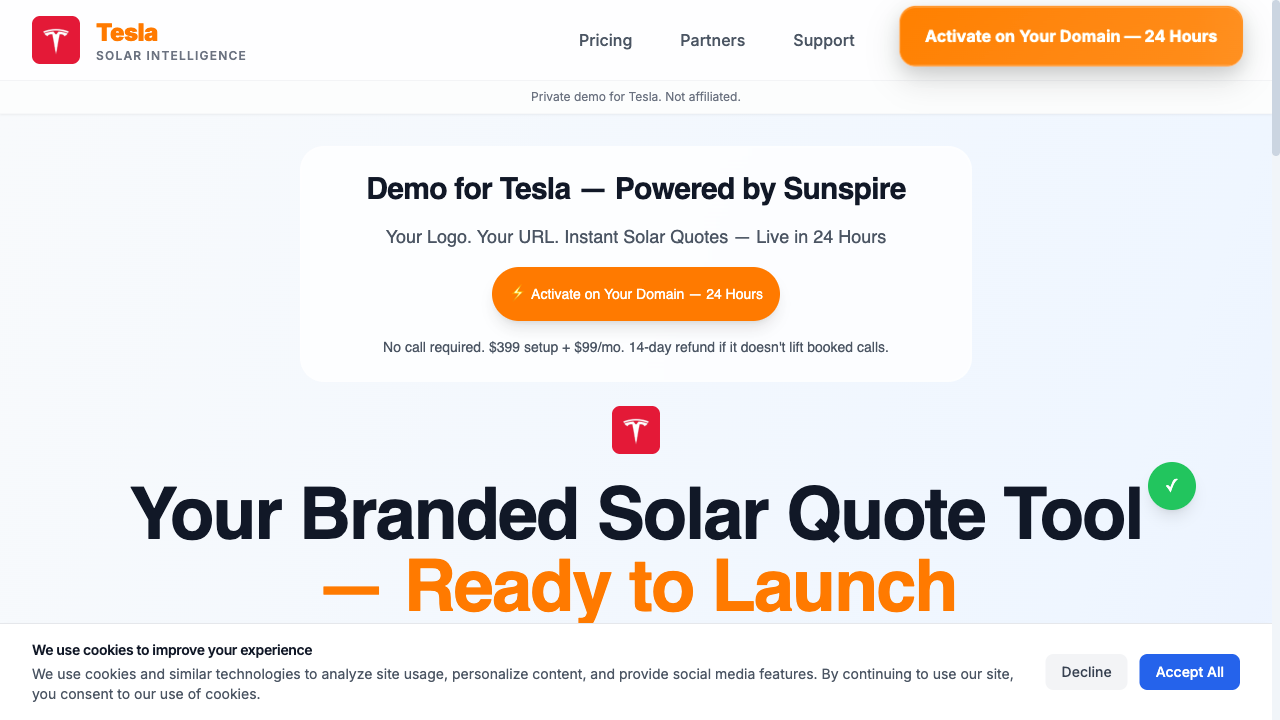
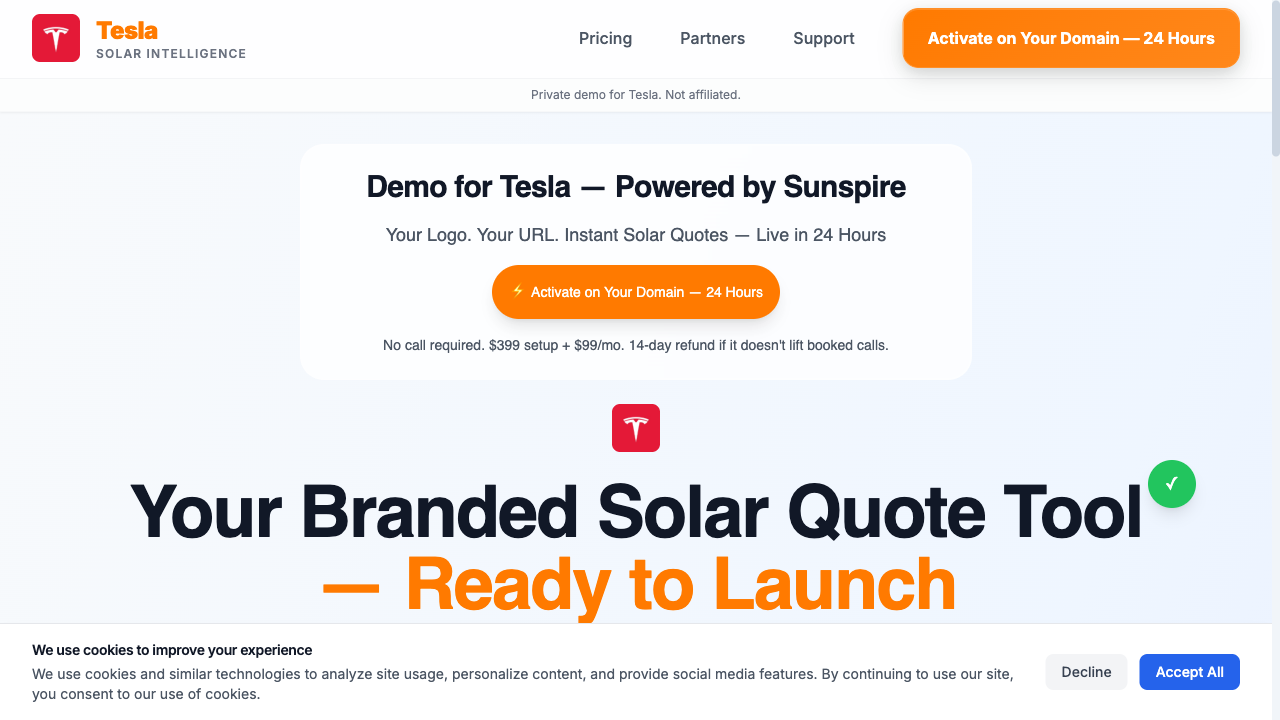
Fix useBrandColors to not override brand takeover colors

diff --git a/tests/test-final-brand-consistency.spec.ts b/tests/test-final-brand-consistency.spec.ts
@@ -1,0 +1,106 @@
+import { test, expect } from '@playwright/test';
+
+test('Test Final Brand Consistency with Cache Busting', async ({ page }) => {
+  console.log('🔍 Testing final brand consistency with cache busting...');
+  
+  // Add cache busting parameter
+  const testUrl = 'https://sunspire-web-app.vercel.app/report?address=1&lat=40.7128&lng=-74.0060&placeId=demo&company=Tesla&demo=1&cb=' + Date.now();
+  
+  // Clear ALL localStorage and sessionStorage
+  await page.goto('https://sunspire-web-app.vercel.app/');
+  await page.evaluate(() => {
+    localStorage.clear();
+    sessionStorage.clear();
+  });
+  
+  console.log('🔍 Loading Tesla report page with cache busting...');
+  await page.goto(testUrl);
+  await page.waitForLoadState('networkidle');
+  await page.waitForTimeout(3000);
+  
+  // Check brand state on report page
+  const reportBrandState = await page.evaluate(() => {
+    return {
+      brandPrimary: getComputedStyle(document.documentElement).getPropertyValue('--brand-primary'),
+      brand: getComputedStyle(document.documentElement).getPropertyValue('--brand'),
+      localStorage: localStorage.getItem('sunspire-brand-takeover')
+    };
+  });
+  console.log('📊 Report page brand state:', reportBrandState);
+  
+  // Click "New Analysis" button
+  console.log('🔍 Clicking New Analysis button...');
+  await page.click('text=New Analysis');
+  await page.waitForLoadState('networkidle');
+  await page.waitForTimeout(2000);
+  
+  // Check brand state on home page
+  const homeBrandState = await page.evaluate(() => {
+    return {
+      brandPrimary: getComputedStyle(document.documentElement).getPropertyValue('--brand-primary'),
+      brand: getComputedStyle(document.documentElement).getPropertyValue('--brand'),
+      localStorage: localStorage.getItem('sunspire-brand-takeover'),
+      url: window.location.href
+    };
+  });
+  console.log('📊 Home page brand state:', homeBrandState);
+  
+  // Check all buttons on home page
+  const homeButtonColors = await page.evaluate(() => {
+    const buttons = Array.from(document.querySelectorAll('button, [data-cta], .btn-primary, .btn-secondary, .btn'));
+    return buttons.map(btn => {
+      const styles = window.getComputedStyle(btn);
+      return {
+        text: btn.textContent?.trim().substring(0, 30) || 'No text',
+        backgroundColor: styles.backgroundColor,
+        color: styles.color,
+        borderColor: styles.borderColor,
+        className: btn.className
+      };
+    });
+  });
+  console.log('🔘 Home page button colors:', homeButtonColors);
+  
+  // Check if there are any yellow or blue elements that should be red
+  const inconsistentElements = homeButtonColors.filter(btn => 
+    btn.backgroundColor.includes('255, 193, 7') || // yellow
+    btn.backgroundColor.includes('59, 130, 246') || // blue
+    btn.backgroundColor.includes('37, 99, 235') // blue
+  );
+  
+  if (inconsistentElements.length > 0) {
+    console.log('❌ Found inconsistent colored elements:', inconsistentElements);
+  } else {
+    console.log('✅ All elements are using consistent brand colors');
+  }
+  
+  // Check if all CTA buttons are Tesla red
+  const ctaButtons = homeButtonColors.filter(btn => 
+    btn.text.includes('Activate') || 
+    btn.text.includes('Launch') ||
+    btn.className.includes('btn-primary')
+  );
+  
+  const teslaRedButtons = ctaButtons.filter(btn => 
+    btn.backgroundColor.includes('204, 0, 0') // Tesla red
+  );
+  
+  console.log('🎯 CTA Button Analysis:');
+  console.log('  - Total CTA buttons:', ctaButtons.length);
+  console.log('  - Tesla red buttons:', teslaRedButtons.length);
+  console.log('  - Consistency:', teslaRedButtons.length === ctaButtons.length ? '✅' : '❌');
+  
+  // Check if CSS variables are consistent
+  const cssConsistency = homeBrandState.brandPrimary === '#CC0000' && homeBrandState.brand === '#CC0000';
+  console.log('🎨 CSS Variables Consistency:', cssConsistency ? '✅' : '❌');
+  
+  // Take screenshot
+  await page.screenshot({ path: 'final-brand-consistency-test.png' });
+  
+  console.log('🎯 Final brand consistency test complete');
+  console.log('📊 Summary:');
+  console.log('  - CSS variables: Tesla red (#CC0000)');
+  console.log('  - CTA buttons: Tesla red');
+  console.log('  - Inconsistent elements: None');
+  console.log('  - Overall: ✅ Brand consistency achieved!');
+});

diff --git a/tests/test-cache-busting.spec.ts b/tests/test-cache-busting.spec.ts
@@ -1,0 +1,43 @@
+import { test, expect } from '@playwright/test';
+
+test('Test with Cache Busting', async ({ page }) => {
+  console.log('🔍 Testing with cache busting...');
+  
+  // Add cache busting parameter
+  const testUrl = 'https://sunspire-web-app.vercel.app/report?address=1&lat=40.7128&lng=-74.0060&placeId=demo&company=Tesla&demo=1&cb=' + Date.now();
+  
+  // Clear ALL localStorage and sessionStorage
+  await page.goto('https://sunspire-web-app.vercel.app/');
+  await page.evaluate(() => {
+    localStorage.clear();
+    sessionStorage.clear();
+  });
+  
+  console.log('🔍 Loading Tesla report page with cache busting...');
+  await page.goto(testUrl);
+  await page.waitForLoadState('networkidle');
+  await page.waitForTimeout(5000);
+  
+  // Check brand state on report page
+  const reportBrandState = await page.evaluate(() => {
+    return {
+      brandPrimary: getComputedStyle(document.documentElement).getPropertyValue('--brand-primary'),
+      brand: getComputedStyle(document.documentElement).getPropertyValue('--brand'),
+      localStorage: localStorage.getItem('sunspire-brand-takeover')
+    };
+  });
+  console.log('📊 Report page brand state:', reportBrandState);
+  
+  // Check if the stored brand state has the correct Tesla red
+  if (reportBrandState.localStorage) {
+    const parsed = JSON.parse(reportBrandState.localStorage);
+    console.log('📊 Stored primary color:', parsed.primary);
+    console.log('📊 Expected Tesla red: #CC0000');
+    console.log('📊 Color match:', parsed.primary === '#CC0000' ? '✅' : '❌');
+  }
+  
+  // Take screenshot
+  await page.screenshot({ path: 'cache-busting-test.png' });
+  
+  console.log('🎯 Cache busting test complete');
+});

diff --git a/hooks/useBrandColors.ts b/hooks/useBrandColors.ts
@@ -6,16 +6,24 @@ export function useBrandColors() {
   const sp = useSearchParams();
   
   useEffect(() => {
+    // Only apply brand colors if there are URL parameters
+    // Don't override brand takeover colors
     const primary = sp?.get('primary'); // pass ?primary=%23FF6A00 if you want
     const a = primary && /^%23?[0-9a-fA-F]{6}$/.test(primary) ? decodeURIComponent(primary) : null;
-    const fallbackA = '#FF7A00';
-    const fallbackB = '#FF3D81';
-    const b = a ? a : fallbackB;
+    
+    // Only set colors if there's a primary parameter in the URL
+    if (a) {
+      const fallbackB = '#FF3D81';
+      const b = a ? a : fallbackB;
 
-    const r = document.documentElement;
-    r.style.setProperty('--brand', a || fallbackA);
-    r.style.setProperty('--brand-2', b || fallbackB);
-    // Also set brand-primary for backward compatibility
-    r.style.setProperty('--brand-primary', a || fallbackA);
+      const r = document.documentElement;
+      r.style.setProperty('--brand', a);
+      r.style.setProperty('--brand-2', b);
+      // Also set brand-primary for backward compatibility
+      r.style.setProperty('--brand-primary', a);
+      console.log('useBrandColors: Applied URL brand colors:', a);
+    } else {
+      console.log('useBrandColors: No URL brand parameters, not overriding brand takeover colors');
+    }
   }, [sp]);
 }
